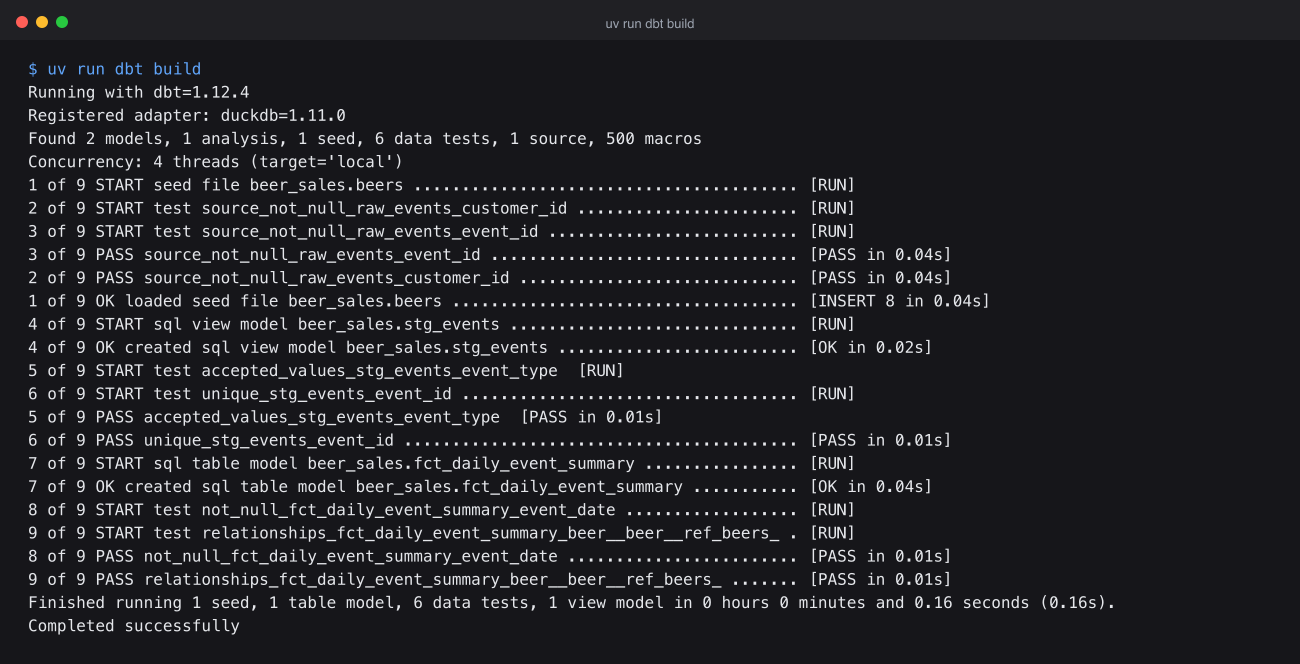
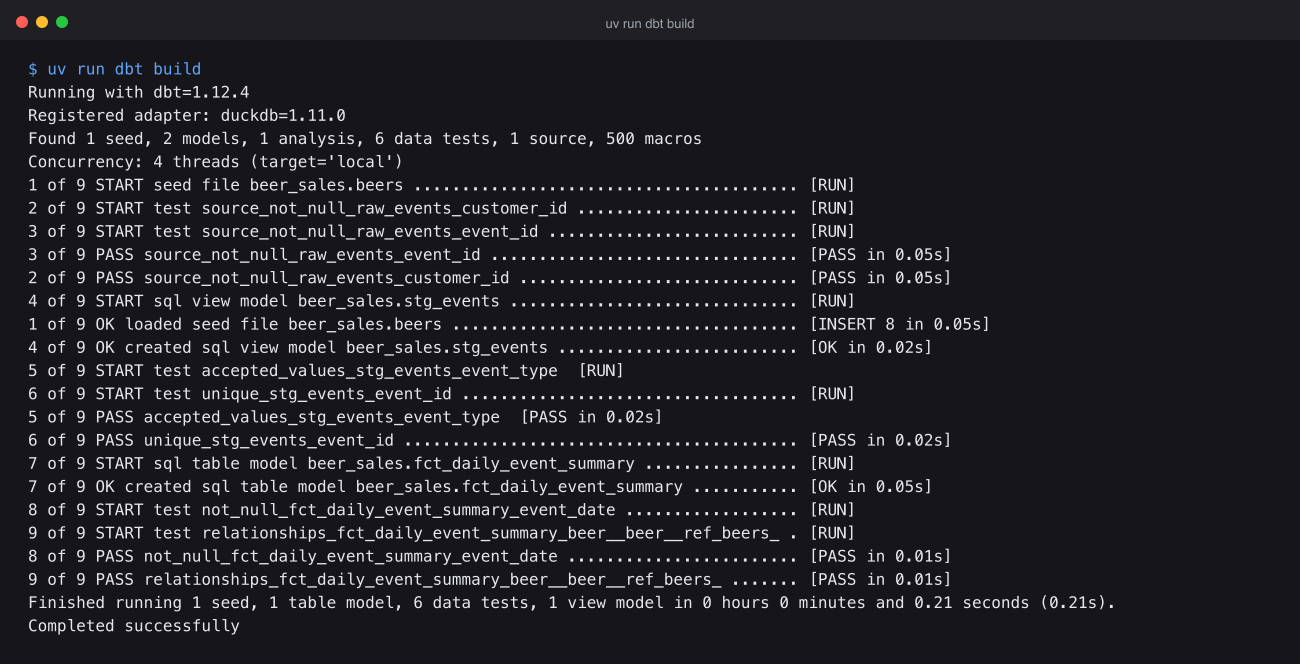
feat: weight Clwb Tropica so it tops beer sales

Changed region(s): [[0.0615, 0.4217, 0.4, 0.512], [0.6154, 0.4217, 0.7692, 0.512], [0.0923, 0.1807, 0.2769, 0.241]]

diff --git a/scripts/generate_fake_events.py b/scripts/generate_fake_events.py
@@ -32,6 +32,8 @@ beers = [
     "Juicy",
     "Dutty",
 ]
+# Clwb Tropica is deceptively strong and goes down easy, so it outsells the rest.
+beer_weights = [1, 1, 2, 1, 1, 1, 1, 1]
 # Events tied to a specific beer carry a product; browsing and searching don't.
 product_events = {"product_view", "add_to_cart", "checkout_started", "purchase"}
 
@@ -50,7 +52,9 @@ for _ in range(50_000):
             "customer_id": random.choice(customers),
             "session_id": str(uuid.uuid4()),
             "event_type": event_type,
-            "beer": random.choice(beers) if event_type in product_events else None,
+            "beer": random.choices(beers, weights=beer_weights, k=1)[0]
+            if event_type in product_events
+            else None,
             "device": random.choice(devices),
             "country": fake.country_code(),
             "revenue": (

diff --git a/docs/1.duckdb_harlequin.md b/docs/1.duckdb_harlequin.md
@@ -108,6 +108,8 @@ devices = ["web","ios","android"]
 # Our shop sells Tiny Rebel craft beer by the case.
 beers = ["Cwtch","Stay Puft","Clwb Tropica","Easy Livin",
          "Hank","Fubar","Juicy","Dutty"]
+# Clwb Tropica is deceptively strong and goes down easy, so it outsells the rest.
+beer_weights = [1,1,2,1,1,1,1,1]
 # Events tied to a specific beer carry a product; browsing and searching don't.
 product_events = {"product_view","add_to_cart","checkout_started","purchase"}
 
@@ -126,7 +128,8 @@ for _ in range(50_000):
         "customer_id": random.choice(customers),
         "session_id": str(uuid.uuid4()),
         "event_type": event_type,
-        "beer": random.choice(beers) if event_type in product_events else None,
+        "beer": random.choices(beers, weights=beer_weights, k=1)[0]
+                if event_type in product_events else None,
         "device": random.choice(devices),
         "country": fake.country_code(),
         "revenue": round(random.uniform(12,65),2)

diff --git a/docs/2.dbt.md b/docs/2.dbt.md
@@ -349,7 +349,7 @@ group by beer
 order by revenue desc;
 ```
 
-![Harlequin running the beer revenue query against fct_daily_event_summary, with Dutty top of the results](images/02/harlequin_mart_query.png)
+![Harlequin running the beer revenue query against fct_daily_event_summary, with Clwb Tropica top of the results](images/02/harlequin_mart_query.png)
 
 No `read_parquet`, no file paths, just the data product and the table. Harlequin starts in duckdb's default `main` schema, so we prefix the table with `beer_sales` to say which data product we mean.
 
@@ -389,7 +389,7 @@ uv run hsql beers.duckdb \
 
 ![hsql mart](images/02/hsql_mart.png)
 
-Dutty top of the pile. Can't argue with that.
+Clwb Tropica top of the pile, and by a distance. Deceptively strong and goes down easy - can't argue with that.
 
 That's the split worth remembering. Harlequin with plain table names for poking around, analyses with refs for anything worth keeping.
 
